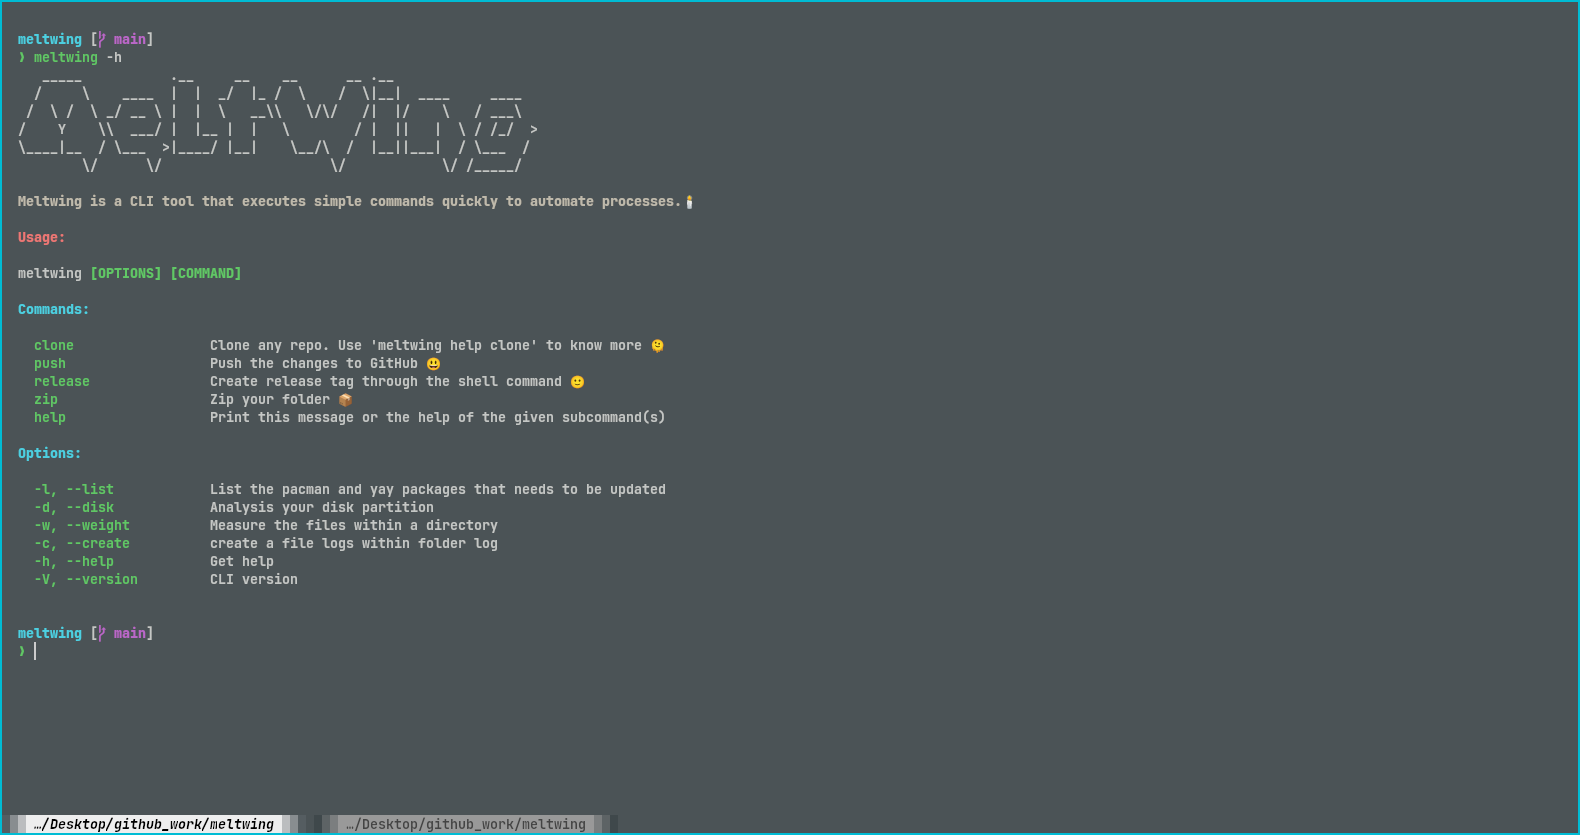
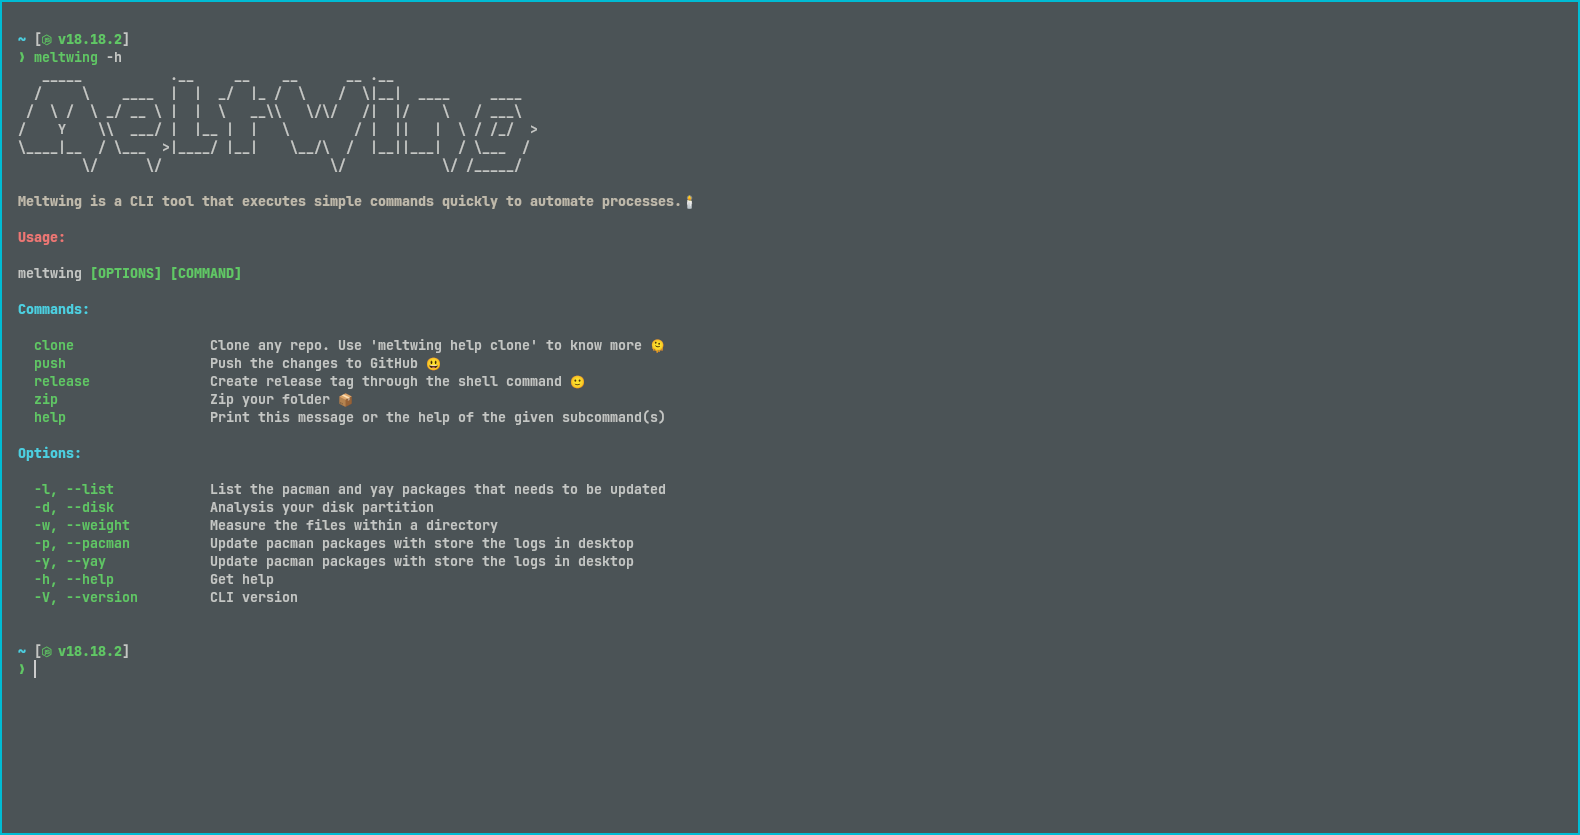
Add support for updating Yay packages

diff --git a/src/workflow.c b/src/workflow.c
@@ -1,7 +1,6 @@
 #include <cmd.h>
 #include <sys.h>
 
-
 const char HELP[MAXHELP] =
     "   _____           .__     __    __      __ .__                  \n"
     "  /     \\    ____  |  |  _/  |_ /  \\    /  \\|__|  ____     ____  \n"
@@ -24,7 +23,10 @@ const char HELP[MAXHELP] =
     "List the pacman and yay packages that needs to be updated\n" GRN
     "  -d, --disk\t\t" RESET "Analysis your disk partition\n" GRN
     "  -w, --weight\t\t" RESET "Measure the files within a directory\n" GRN
-    "  -p, --pacman\t\t" RESET "Update pacman packages with store the logs in desktop\n" GRN
+    "  -p, --pacman\t\t" RESET
+    "Update pacman packages with store the logs in desktop\n" GRN
+    "  -y, --yay\t\t" RESET
+    "Update pacman packages with store the logs in desktop\n" GRN
     "  -h, --help\t\t" RESET "Get help\n" GRN "  -V, --version\t\t" RESET
     "CLI version\n";
 
@@ -57,23 +59,29 @@ int HandleWeightCommand() {
 }
 
 /**
- * @brief HandlePacman - small function that call updateSys to update pacman packages
+ * @brief HandlePacman - small function that call updateSys to update pacman
+ * packages
  * @return 0
-*/
+ */
 int HandlePacman() {
   printf(BYEL "Updating Pacman...\n" RESET);
-  UpdateSys("sudo pacman -Syu --noconfirm");
-  return 0;
+  return UpdateSys("sudo pacman -Syu --noconfirm");
 }
-
+/*
+ * @breif HandleYay - Update yay packages
+ * @retunr 0
+ */
+int HandleYay() {
+  printf(BYEL "Updating Yay ...\n" RESET);
+  return UpdateSys("yay -Syu --noconfirm");
+}
 /*
  * @breif HandleDiskCmmand - Execute the commadn DUF
  * @retunr 0
  */
 int HandleDiskCommand() {
   char *const df_arg[] = {"-h", "--all", NULL};
-  exe("/usr/bin/duf", df_arg);
-  return 0;
+  return exe("/usr/bin/duf", df_arg);
 }
 
 int HandlPackageListing() {
@@ -103,10 +111,6 @@ int HandlOptions(char *option) {
   if (strcmp(option, "-w") == 0 || strcmp(option, "--weight") == 0) {
     return HandleWeightCommand();
   }
-  // Update Pacman
-  if (strcmp(option, "-p") == 0 || strcmp(option, "--pacman") == 0) {
-    return HandlePacman();
-  }
   // disk command
   if (strcmp(option, "-d") == 0 || strcmp(option, "--disk") == 0) {
     return HandleDiskCommand();
@@ -114,6 +118,14 @@ int HandlOptions(char *option) {
   // list the updates
   if (strcmp(option, "-l") == 0 || strcmp(option, "--list") == 0) {
     return HandlPackageListing();
+  }
+  // Update Pacman
+  if (strcmp(option, "-p") == 0 || strcmp(option, "--pacman") == 0) {
+    return HandlePacman();
+  }
+  // Update Yay
+  if (strcmp(option, "-y") == 0 || strcmp(option, "--yay") == 0) {
+    return HandleYay();
   }
   PrintERROR(option);
   return 0;

diff --git a/README.md b/README.md
@@ -1,17 +1,22 @@
 # Meltwing
+
 Meltwinhg is a simple that built upon C language for matter of performance and
 learning outcome. In other words, I missed C :smile:.
 
 ![CLI](./img/CLI.png)
 
-# available features
+## available features
+
 - [x] Error handling
 - [x] performance
+- [x] log command in desktop
 
-# Available command and Command options
+## Available command and Command options
 
 - [x] weight command
 - [x] disk command
 - [x] list command
 - [x] version command
 - [x] help command
+- [x] pacman command
+- [x] yay command
